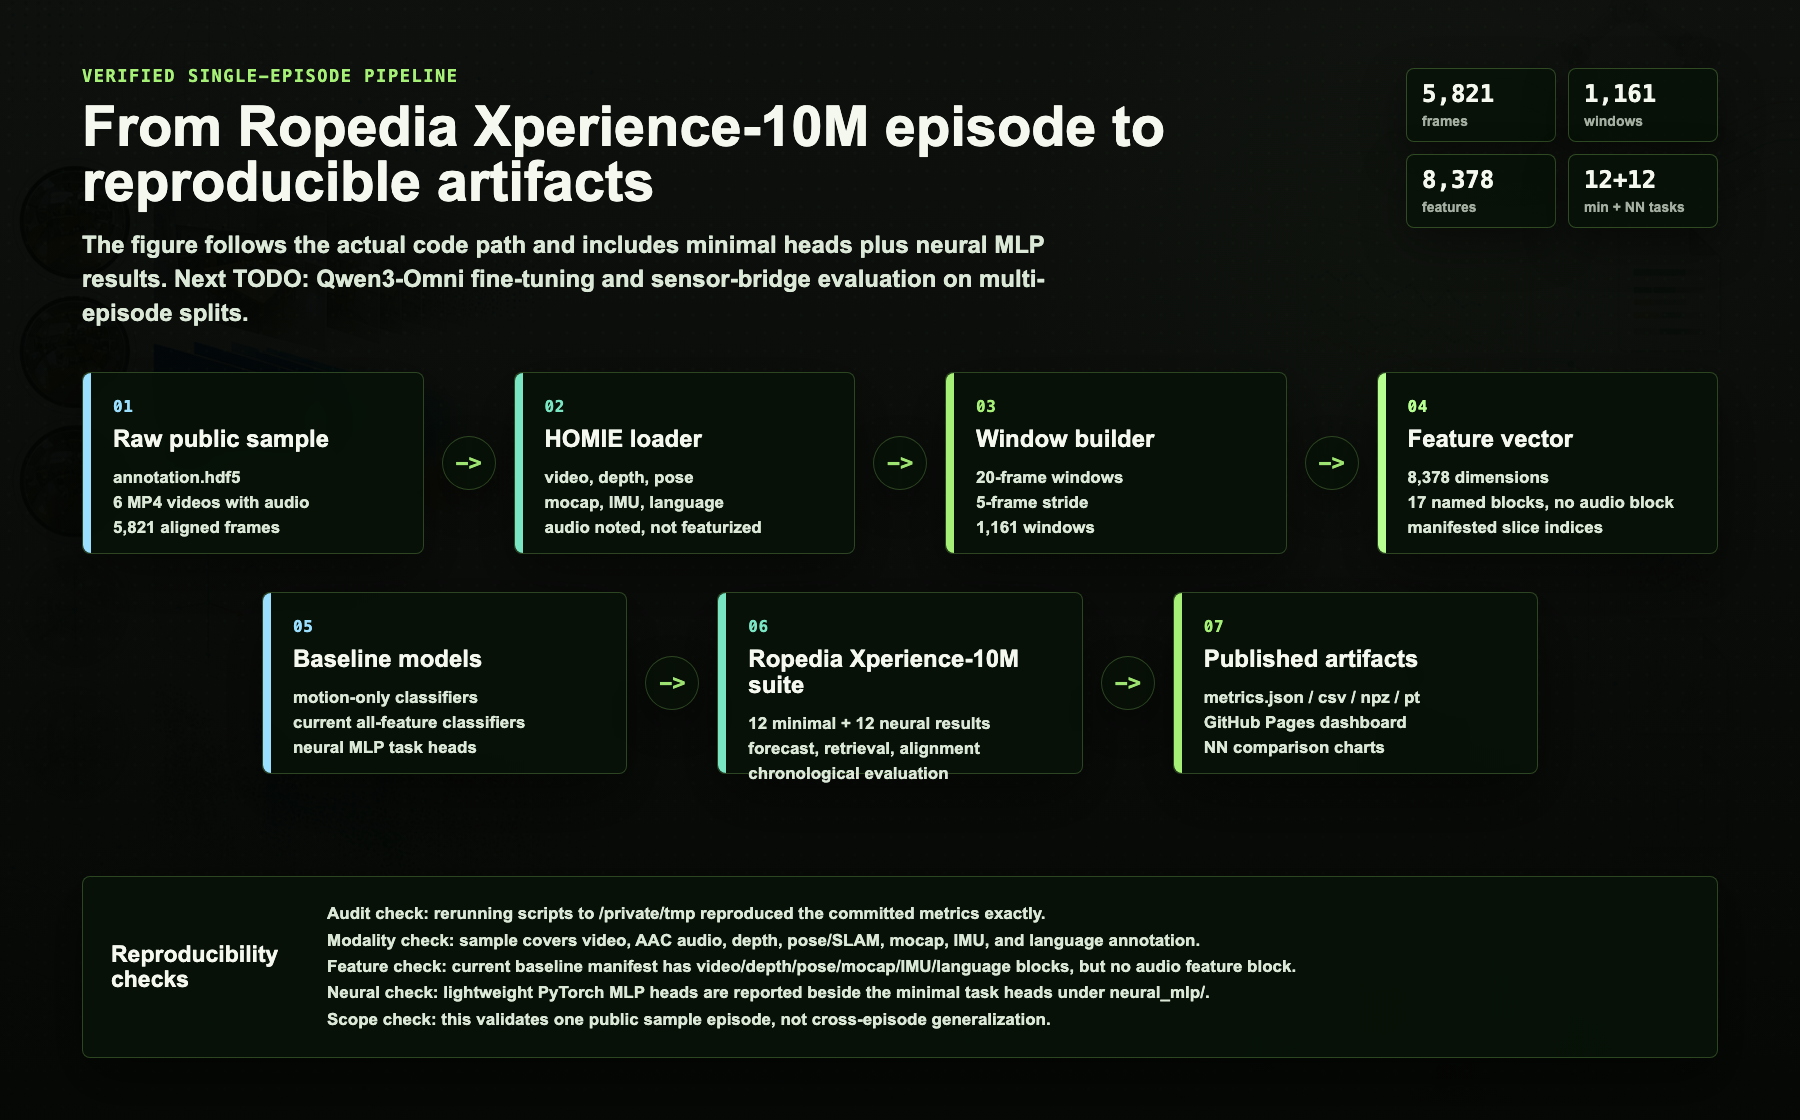
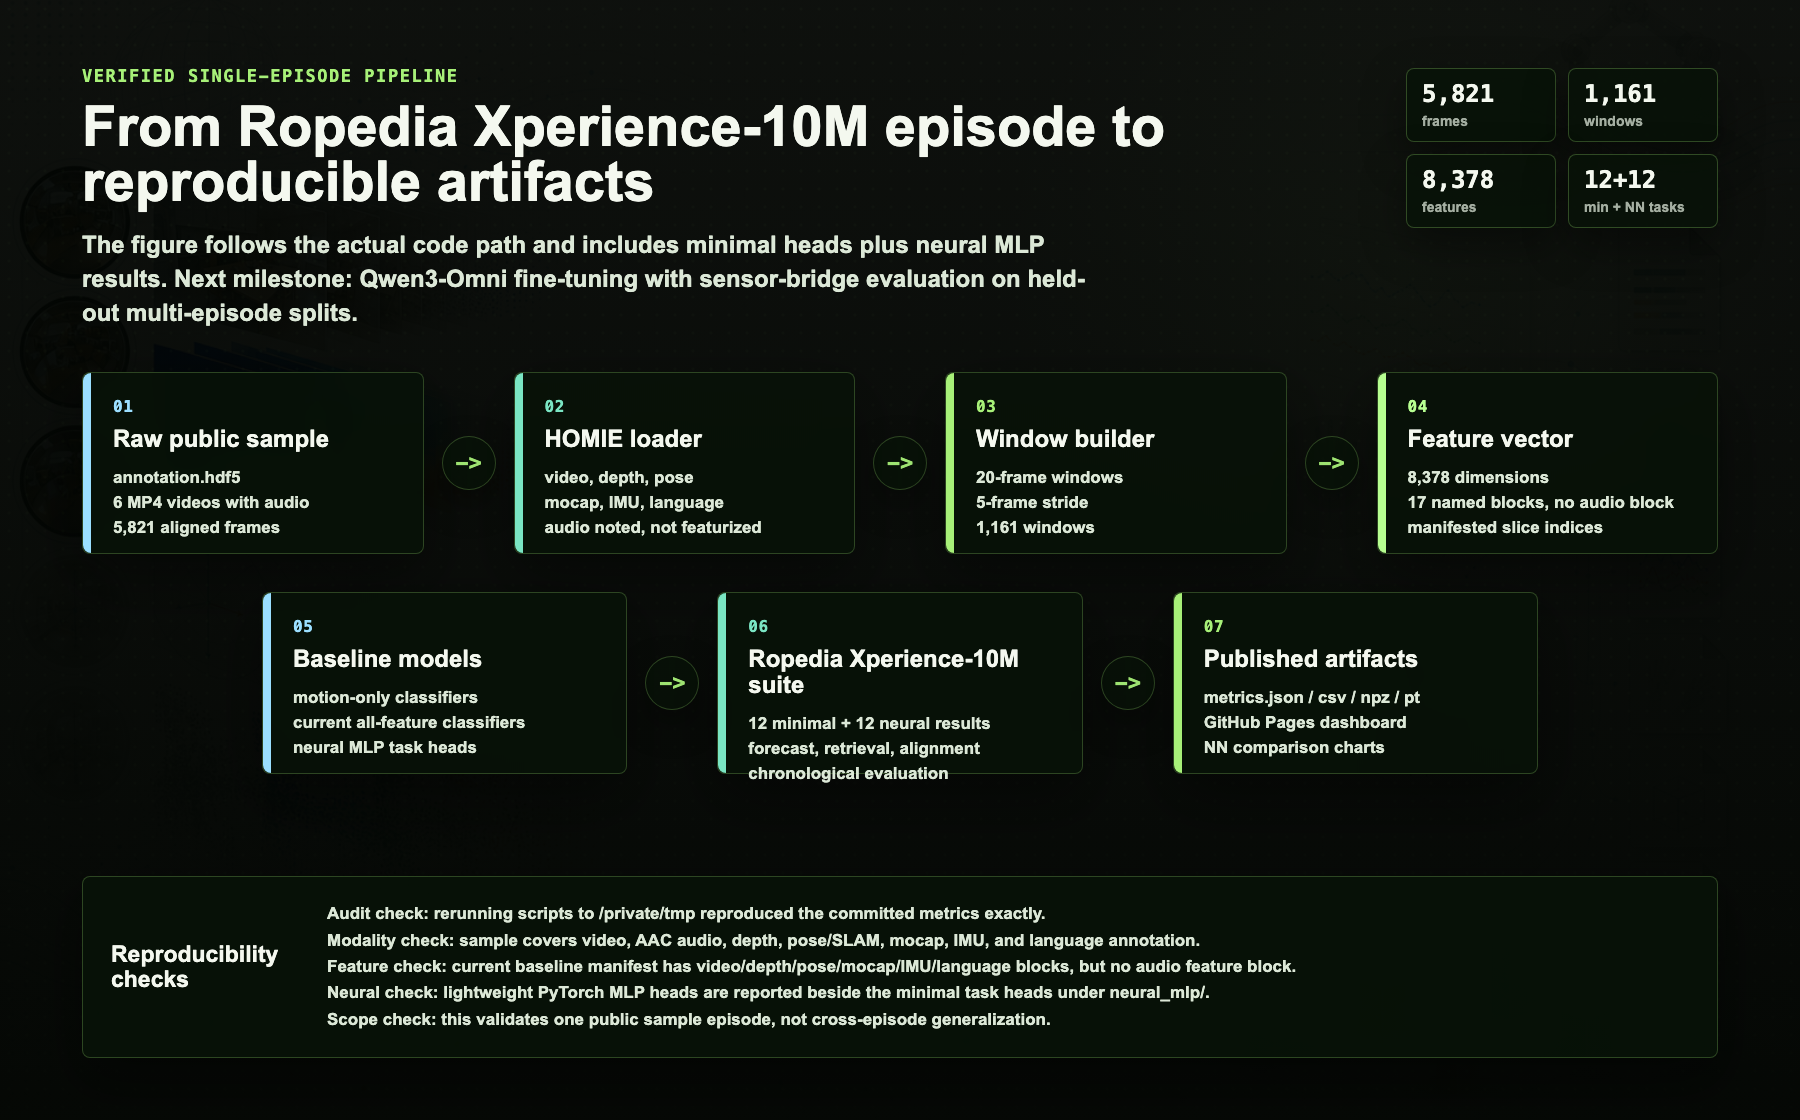
Polish scale-up milestone language

Changed region(s): [[0.0622, 0.2188, 0.5911, 0.3125]]

diff --git a/docs/index.html b/docs/index.html
@@ -1007,7 +1007,7 @@
           A compact research lab for the public Xperience-10M sample from Ropedia:
           video, audio, depth, pose, motion capture, inertial sensing, and language annotation,
           with explicit minimal and neural MLP baselines over the same current feature vector.
-          Next TODO: Qwen3-Omni fine-tuning plus sensor-bridge evaluation on multi-episode splits.
+          Next milestone: Qwen3-Omni fine-tuning with sensor-bridge evaluation on held-out multi-episode splits.
         </p>
         <div class="hero-actions">
           <a class="button primary" href="#suite">Inspect 12 tasks</a>

diff --git a/scripts/render_overview_figures.py b/scripts/render_overview_figures.py
@@ -359,7 +359,7 @@ def build_pipeline_html(summary: dict, base_path: Path) -> str:
         <div>
           <div class="kicker">verified single-episode pipeline</div>
           <h1>From Ropedia Xperience-10M episode to reproducible artifacts</h1>
-          <p class="subtitle">The figure follows the actual code path and includes minimal heads plus neural MLP results. Next TODO: Qwen3-Omni fine-tuning and sensor-bridge evaluation on multi-episode splits.</p>
+          <p class="subtitle">The figure follows the actual code path and includes minimal heads plus neural MLP results. Next milestone: Qwen3-Omni fine-tuning with sensor-bridge evaluation on held-out multi-episode splits.</p>
         </div>
         <div class="metrics">
           <div class="metric"><strong>{suite['num_frames']:,}</strong><span>frames</span></div>
@@ -698,7 +698,7 @@ def build_architecture_html(summary: dict, base_path: Path) -> str:
         <div>
           <div class="kicker">minimal + neural verified model architectures</div>
           <h1>12 Ropedia Xperience-10M tasks, minimal and NN heads</h1>
-          <p class="subtitle">Each task uses the same aligned episode-window contract. The figure shows minimal heads beside neural MLP metrics; next TODO is Qwen3-Omni fine-tuning with sensor-bridge evaluation.</p>
+          <p class="subtitle">Each task uses the same aligned episode-window contract. The figure shows minimal heads beside neural MLP metrics; next milestone is Qwen3-Omni fine-tuning with sensor-bridge evaluation.</p>
         </div>
         <div class="summary-pill"><strong>{len(suite['tasks'])}+{neural_count}</strong><span>min + NN tasks</span></div>
       </header>

diff --git a/scripts/render_task_suite_infographic.py b/scripts/render_task_suite_infographic.py
@@ -1014,7 +1014,7 @@ def build_html(summary: dict, base_image: Path | None, sample_dir: Path | None) 
       <div>
         <div class="kicker">verified single-episode task suite</div>
         <h1>Ropedia Xperience-10M 12-task suite</h1>
-        <p class="subtitle">A clean map from synchronized multimodal windows to 12 auditable task heads, comparing minimal heads with neural MLP results. Next TODO: Qwen3-Omni fine-tuning plus sensor-bridge evaluation.</p>
+        <p class="subtitle">A clean map from synchronized multimodal windows to 12 auditable task heads, comparing minimal heads with neural MLP results. Next milestone: Qwen3-Omni fine-tuning with sensor-bridge evaluation.</p>
       </div>
       <div class="stats">{stats_html}</div>
     </header>

diff --git a/README.md b/README.md
@@ -26,7 +26,7 @@ into:
 - a generated four-direction research taxonomy matching the Ropedia job tracks,
 - four additional direction-extension probes with minimal and neural baselines,
 - junior-friendly walkthroughs for every task, with case study, input, process, and output,
-- a next TODO track for Qwen3-Omni fine-tuning and sensor-bridge evaluation,
+- a next-milestone track for Qwen3-Omni fine-tuning and sensor-bridge evaluation,
 - metrics, predictions, model weights, manifests, charts, and a static website,
 - a clear explanation of what a single episode can and cannot prove.
 
